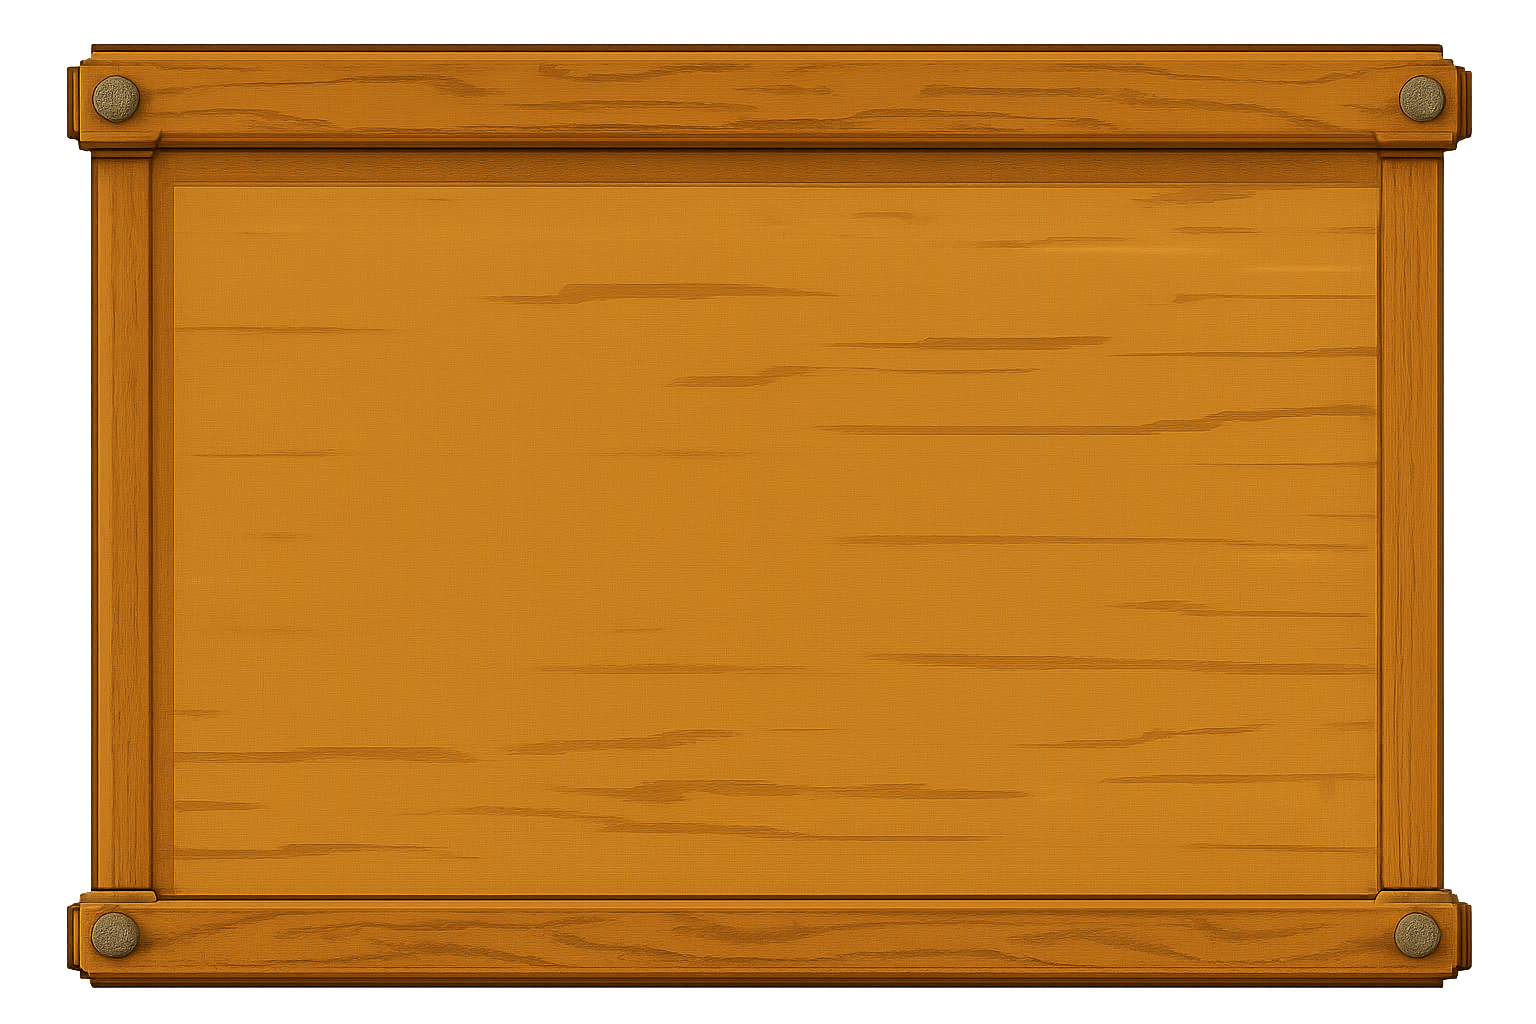
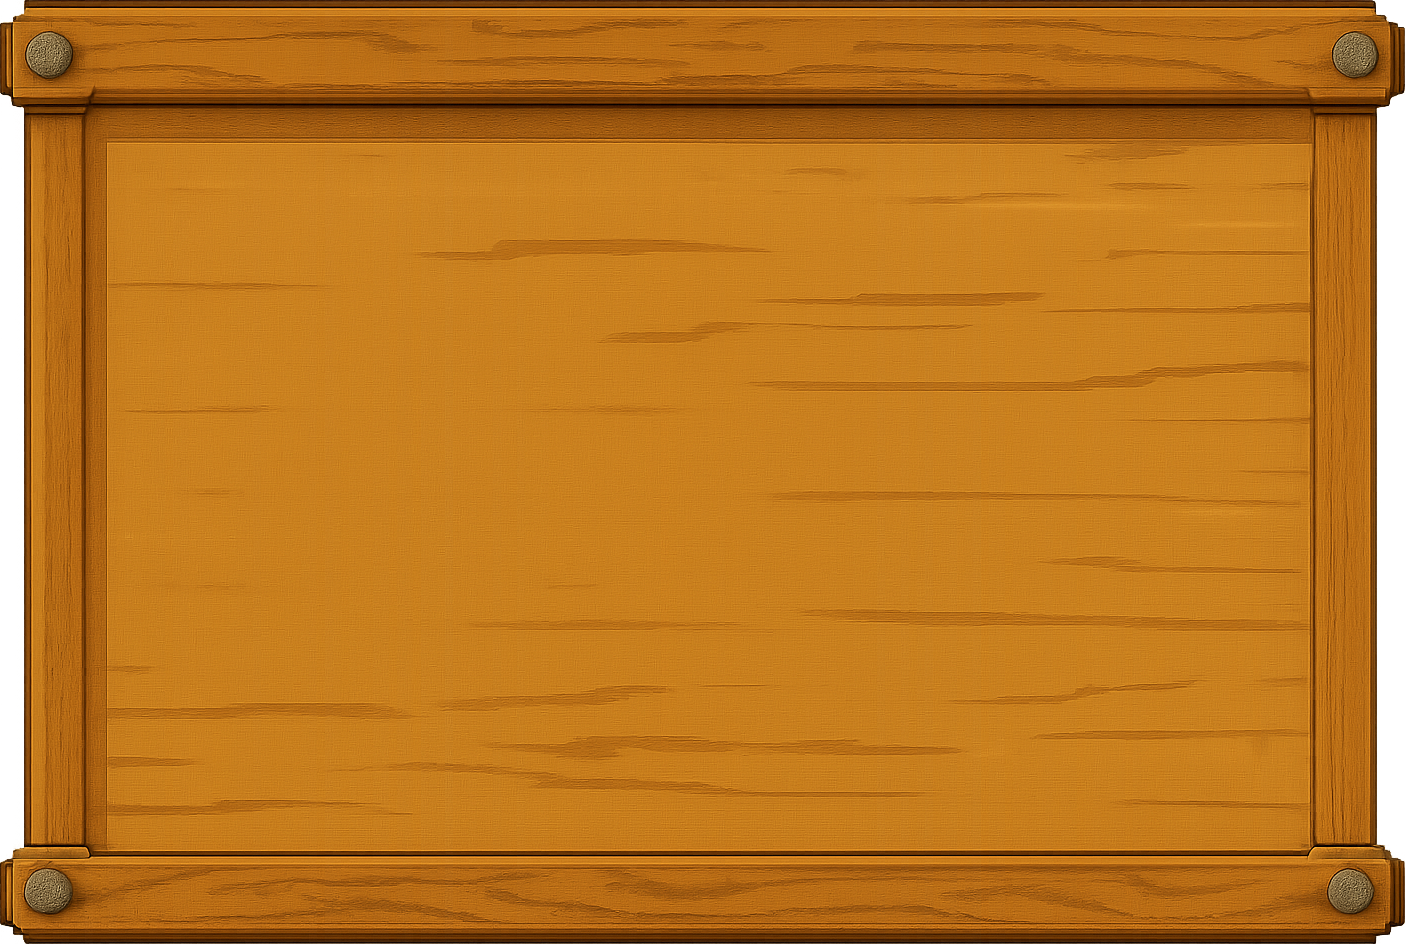
9-Slice Scaling tekniği eklendi ve kartlara uygulandı

diff --git a/components/ui/NineSlicePanel.tsx b/components/ui/NineSlicePanel.tsx
@@ -1,0 +1,137 @@
+import React from "react";
+
+type NineSlicePanelProps = {
+  children: React.ReactNode;
+  className?: string;
+  // Kenar/köşe dilim kalınlığı (px). Görsellere göre ayarlayın.
+  slice?: number;
+};
+
+// 9-parça panel: köşeler, kenarlar (tekrarlı), orta (tekrarlı)
+// Görsel yolları: public/b/*.png
+export function NineSlicePanel({ children, className, slice = 64 }: NineSlicePanelProps) {
+  return (
+    <div className={"relative " + (className ?? "")}>
+      {/* Orta doku */}
+      <div
+        className="absolute pointer-events-none"
+        style={{
+          top: slice / 2,
+          left: slice / 2,
+          right: slice / 2,
+          bottom: slice / 2,
+          backgroundImage: "url(/b/orta_b.png)",
+    backgroundRepeat: "no-repeat",
+    backgroundSize: "cover",
+    backgroundPosition: "center",
+        }}
+      />
+
+      {/* Üst kenar */}
+      <div
+        className="absolute top-0 pointer-events-none"
+        style={{
+          left: slice,
+          right: slice,
+          height: slice,
+          backgroundImage: "url(/b/ust_b.png)",
+          backgroundRepeat: "repeat-x",
+          backgroundSize: `auto ${slice}px`,
+          backgroundPosition: "top",
+        }}
+      />
+
+      {/* Alt kenar */}
+      <div
+        className="absolute bottom-0 pointer-events-none"
+        style={{
+          left: slice,
+          right: slice,
+          height: slice,
+          backgroundImage: "url(/b/alt_b.png)",
+          backgroundRepeat: "repeat-x",
+          backgroundSize: `auto ${slice}px`,
+          backgroundPosition: "bottom",
+        }}
+      />
+
+      {/* Sol kenar */}
+      <div
+        className="absolute left-0 pointer-events-none"
+        style={{
+          top: slice,
+          bottom: slice,
+          width: slice,
+          backgroundImage: "url(/b/sol_b.png)",
+          backgroundRepeat: "repeat-y",
+          backgroundSize: `${slice}px auto`,
+          backgroundPosition: "left",
+        }}
+      />
+
+      {/* Sağ kenar */}
+      <div
+        className="absolute right-0 pointer-events-none"
+        style={{
+          top: slice,
+          bottom: slice,
+          width: slice,
+          backgroundImage: "url(/b/sag_b.png)",
+          backgroundRepeat: "repeat-y",
+          backgroundSize: `${slice}px auto`,
+          backgroundPosition: "right",
+        }}
+      />
+
+      {/* Köşeler */}
+      <div
+        className="absolute top-0 left-0 pointer-events-none"
+        style={{
+          width: slice,
+          height: slice,
+          backgroundImage: "url(/b/sol_ust_b.png)",
+          backgroundRepeat: "no-repeat",
+          backgroundSize: `${slice}px ${slice}px`,
+        }}
+      />
+      <div
+        className="absolute top-0 right-0 pointer-events-none"
+        style={{
+          width: slice,
+          height: slice,
+          backgroundImage: "url(/b/sag_ust_b.png)",
+          backgroundRepeat: "no-repeat",
+          backgroundSize: `${slice}px ${slice}px`,
+        }}
+      />
+      <div
+        className="absolute bottom-0 left-0 pointer-events-none"
+        style={{
+          width: slice,
+          height: slice,
+          backgroundImage: "url(/b/sol_alt_b.png)",
+          backgroundRepeat: "no-repeat",
+          backgroundSize: `${slice}px ${slice}px`,
+        }}
+      />
+      <div
+        className="absolute bottom-0 right-0 pointer-events-none"
+        style={{
+          width: slice,
+          height: slice,
+          backgroundImage: "url(/b/sag_alt_b.png)",
+          backgroundRepeat: "no-repeat",
+          backgroundSize: `${slice}px ${slice}px`,
+        }}
+      />
+
+      {/* İçerik: çerçeveden içe doğru padding */}
+      <div style={{ padding: slice }} className="relative">
+        {children}
+      </div>
+    </div>
+  );
+}
+
+export default NineSlicePanel;
+

diff --git a/components/farm/MiningStatsCard.tsx b/components/farm/MiningStatsCard.tsx
@@ -1,6 +1,7 @@
 // components/farm/MiningStatsCard.tsx
 import { Gauge, Zap, Hourglass } from "lucide-react";
 import { formatNumber } from "@/lib/utils";
+import NineSlicePanel from "../ui/NineSlicePanel";
 
 type Props = {
   dailyMining: number;
@@ -10,19 +11,21 @@ type Props = {
 
 export function MiningStatsCard({ dailyMining, hashRate, blocksUntilHalvening }: Props) {
   return (
-    <div className="flex flex-col gap-4 rounded-lg border bg-card p-4">
-      <div className="flex items-center gap-3">
-        <Gauge className="h-5 w-5 text-muted-foreground" />
-        <p>You are mining <span className="font-bold text-primary">{formatNumber(dailyMining)} $EGG</span> a day</p>
+    <NineSlicePanel slice={24}>
+      <div className="flex flex-col gap-4 p-4">
+        <div className="flex items-center gap-3">
+          <Gauge className="h-5 w-5 text-muted-foreground" />
+          <p>You are mining <span className="font-bold text-primary">{formatNumber(dailyMining)} $EGG</span> a day</p>
+        </div>
+        <div className="flex items-center gap-3">
+          <Zap className="h-5 w-5 text-muted-foreground" />
+          <p>Your hash rate is <span className="font-bold text-primary">{hashRate} GH/s</span></p>
+        </div>
+        <div className="flex items-center gap-3">
+          <Hourglass className="h-5 w-5 text-muted-foreground" />
+          <p><span className="font-bold text-primary">{formatNumber(blocksUntilHalvening)}</span> until next halvening</p>
+        </div>
       </div>
-      <div className="flex items-center gap-3">
-        <Zap className="h-5 w-5 text-muted-foreground" />
-        <p>Your hash rate is <span className="font-bold text-primary">{hashRate} GH/s</span></p>
-      </div>
-      <div className="flex items-center gap-3">
-        <Hourglass className="h-5 w-5 text-muted-foreground" />
-        <p><span className="font-bold text-primary">{formatNumber(blocksUntilHalvening)}</span> until next halvening</p>
-      </div>
-    </div>
+    </NineSlicePanel>
   );
 }

diff --git a/components/farm/CapacityCard.tsx b/components/farm/CapacityCard.tsx
@@ -1,5 +1,6 @@
 // components/farm/CapacityCard.tsx
 import { ThumbsUp, Warehouse } from "lucide-react";
+import NineSlicePanel from "../ui/NineSlicePanel";
 
 type Props = {
   spacesLeft: number;
@@ -8,15 +9,21 @@ type Props = {
 
 export function CapacityCard({ spacesLeft, totalMhs }: Props) {
   return (
-    <div className="flex flex-col gap-4 rounded-lg border bg-card p-4">
-       <div className="flex items-center gap-3">
-         <Warehouse className="h-5 w-5 text-muted-foreground" />
-        <p><span className="font-bold text-primary">{spacesLeft}</span> Spaces LEFT</p>
+    <NineSlicePanel slice={24}>
+      <div className="flex flex-col gap-4 p-4">
+        <div className="flex items-center gap-3">
+          <Warehouse className="h-5 w-5 text-muted-foreground" />
+          <p>
+            <span className="font-bold text-primary">{spacesLeft}</span> Spaces LEFT
+          </p>
+        </div>
+        <div className="flex items-center gap-3">
+          <ThumbsUp className="h-5 w-5 text-muted-foreground" />
+          <p>
+            <span className="font-bold text-primary">{totalMhs} MHS</span> Total Capacity
+          </p>
+        </div>
       </div>
-      <div className="flex items-center gap-3">
-        <ThumbsUp className="h-5 w-5 text-muted-foreground" />
-        <p><span className="font-bold text-primary">{totalMhs} MHS</span> Total Capacity</p>
-      </div>
-    </div>
+    </NineSlicePanel>
   );
 }

diff --git a/components/farm/ClaimCard.tsx b/components/farm/ClaimCard.tsx
@@ -1,6 +1,7 @@
 // components/farm/ClaimCard.tsx
 import { Button } from "@/components/ui/button";
 import { formatNumber } from "@/lib/utils";
+import NineSlicePanel from "../ui/NineSlicePanel";
 
 type Props = {
   minedEgg: number;
@@ -8,12 +9,14 @@ type Props = {
 
 export function ClaimCard({ minedEgg }: Props) {
   return (
-    <div className="flex flex-col justify-between rounded-lg border bg-card p-4">
-      <div>
-        <p className="text-muted-foreground">You have mined</p>
-        <p className="text-3xl font-bold text-primary">{formatNumber(minedEgg)} $EGG</p>
+    <NineSlicePanel slice={24}>
+      <div className="flex flex-col justify-between p-4">
+        <div>
+          <p className="text-muted-foreground">You have mined</p>
+          <p className="text-3xl font-bold text-primary">{formatNumber(minedEgg)} $EGG</p>
+        </div>
+        <Button className="mt-4 w-full">CLAIM MINED $EGG</Button>
       </div>
-      <Button className="mt-4 w-full">CLAIM MINED $EGG</Button>
-    </div>
+    </NineSlicePanel>
   );
 }

diff --git a/app/page.tsx b/app/page.tsx
@@ -3,6 +3,7 @@ import { CapacityCard } from "@/components/farm/CapacityCard";
 import { ClaimCard } from "@/components/farm/ClaimCard";
 import { FarmGrid } from "@/components/farm/FarmGrid";
 import { MiningStatsCard } from "@/components/farm/MiningStatsCard";
+import NineSlicePanel from "@/components/ui/NineSlicePanel";
 import { FarmPlot, FarmStats } from "@/types";
 
 
@@ -71,11 +72,11 @@ export default function FarmPage() {
       >
         <section className="mt-2 p-4 sm:p-6 lg:p-8">
           <h2 className="text-2xl font-bold mb-4">Your Coop</h2>
-          <div className="rounded-lg p-4">
-            <FarmGrid plots={farmPlots} />
-          </div>
+          <NineSlicePanel slice={24}>
+              <FarmGrid plots={farmPlots} />
+          </NineSlicePanel>
         </section>
-      </div>
-    </div>
+      </div >
+    </div >
   );
 }

diff --git a/components/farm/FarmGrid.tsx b/components/farm/FarmGrid.tsx
@@ -12,7 +12,7 @@ type Props = {
 export function FarmGrid({ plots }: Props) {
   return (
     <div
-      className="grid grid-cols-3 sm:grid-cols-4 md:grid-cols-5 lg:grid-cols-6 gap-4 p-4 rounded-lg"
+      className="grid grid-cols-3 sm:grid-cols-4 md:grid-cols-5 lg:grid-cols-6 gap-4 p-4"
       style={{
         backgroundImage: "url('/e.png')",
         backgroundSize: "cover",       // istersen 'repeat' yap
